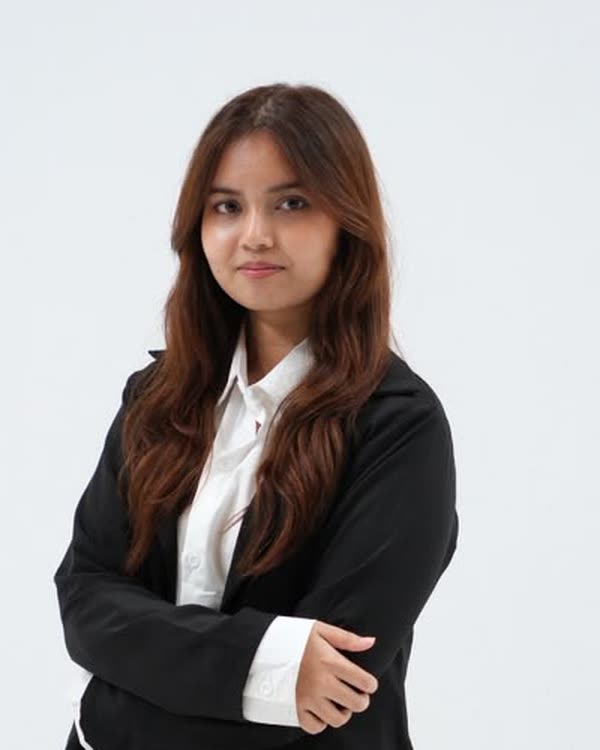
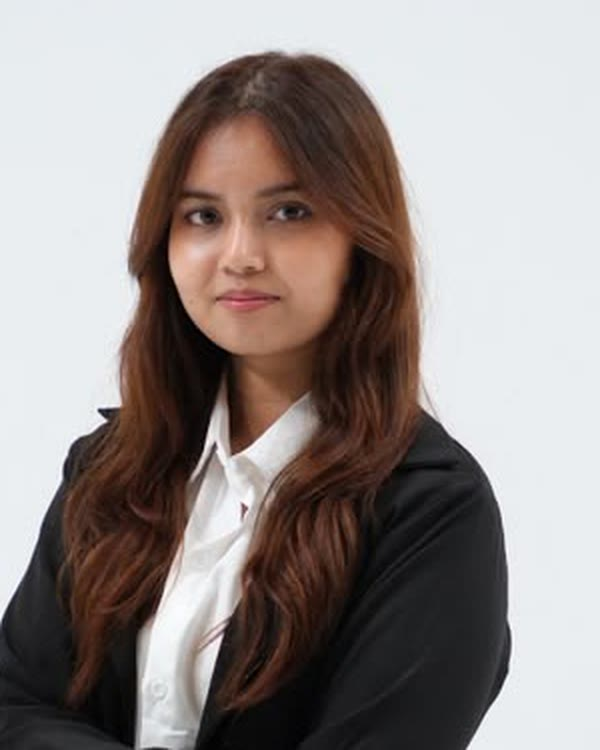
Tighter crop on Thet's photo

diff --git a/index.html b/index.html
@@ -104,7 +104,7 @@
         <div class="member"><div class="pic"><img src="img/team/shermaine.jpg" alt="Beh Sher Maine" loading="lazy"><span class="s">S</span></div><b>Beh Sher Maine</b><span class="label">(b) Consumer characteristics</span></div>
         <div class="member"><div class="pic"><img src="img/team/maeve.jpg" alt="Maeve Cheong Qi Rou" loading="lazy"><span class="s">M</span></div><b>Maeve Cheong Qi Rou</b><span class="label">(c) Consumer behaviour analysis</span></div>
         <div class="member"><div class="pic"><img src="img/team/haziq.jpg" alt="Muhammad Haziq" loading="lazy"><span class="s">L</span></div><b>Muhammad Haziq</b><span class="label">(d) Case studies + website</span></div>
-        <div class="member"><div class="pic"><img src="img/team/thet.jpg" alt="Thet Phoo Eain" loading="lazy"><span class="s">XL</span></div><b>Thet Phoo Eain</b><span class="label">(e) Recommendations</span></div>
+        <div class="member"><div class="pic"><img src="img/team/thet.jpg?v=2" alt="Thet Phoo Eain" loading="lazy"><span class="s">XL</span></div><b>Thet Phoo Eain</b><span class="label">(e) Recommendations</span></div>
       </div>
     </div>
   </section>
